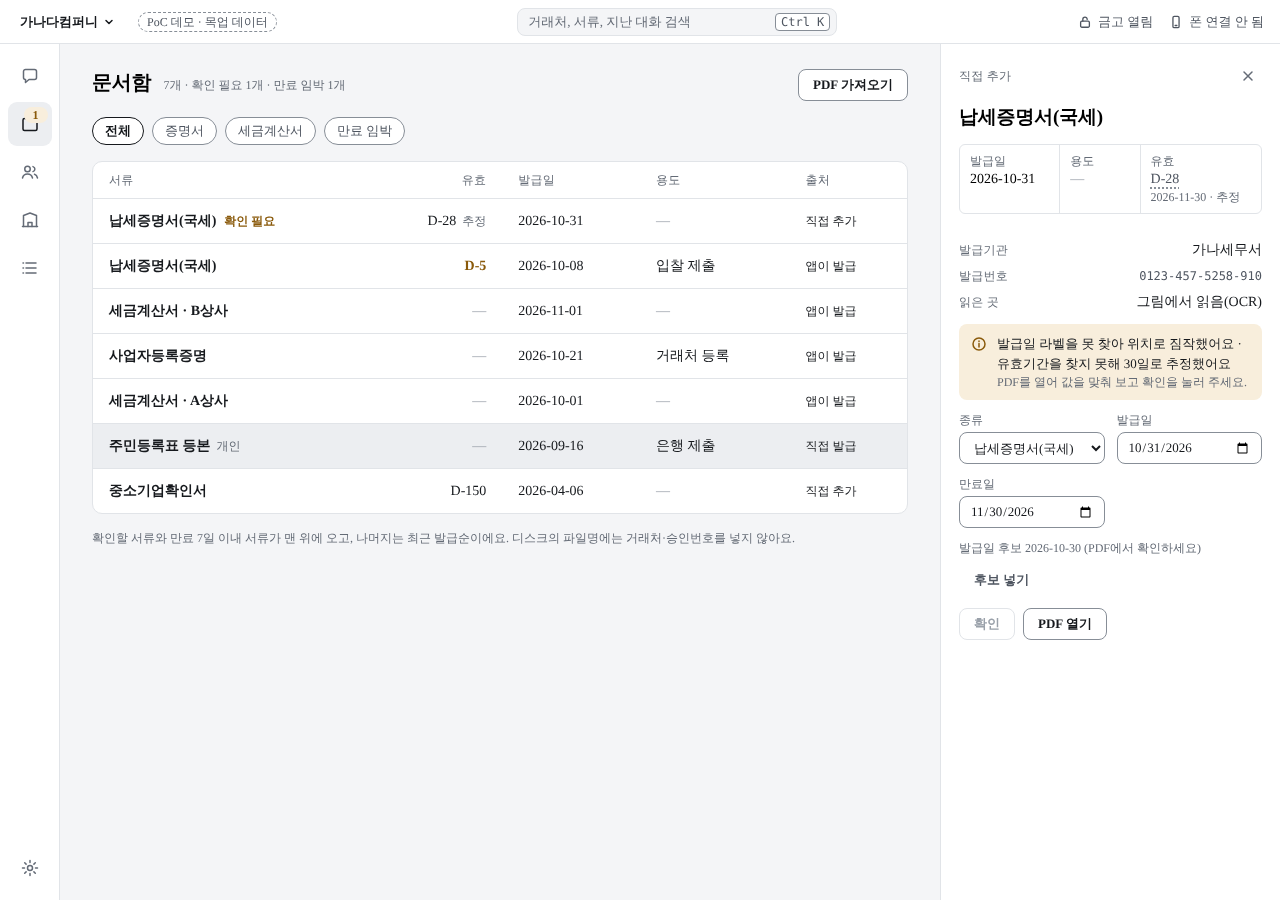
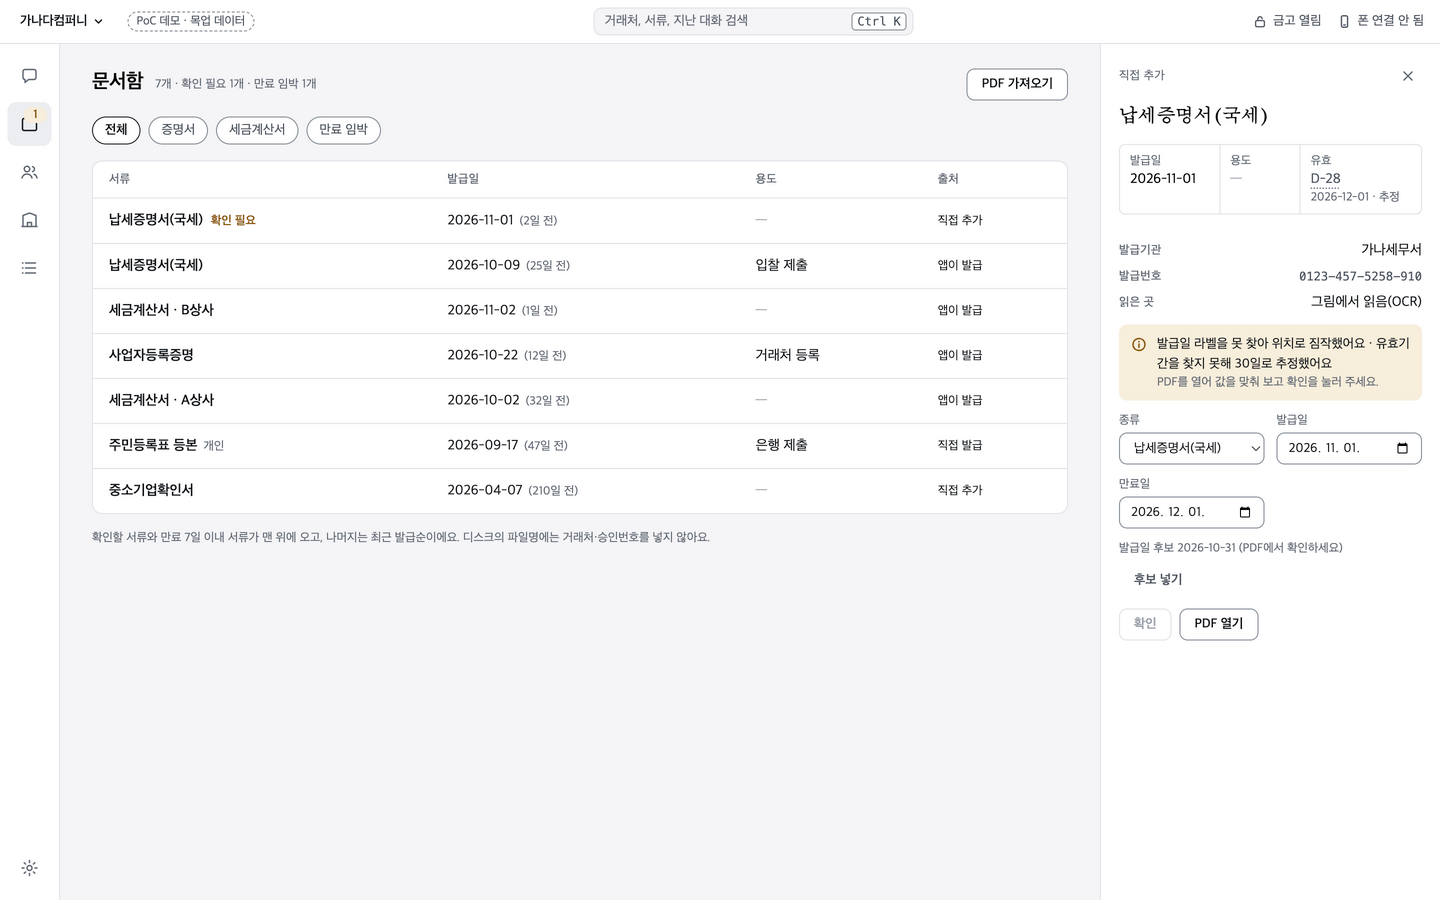
셸 캔버스 후속: 문서함 유효 열 제거·발급일 (n일 전), 설정 발급 인증 목록화
- 문서함 목록: 유효 열을 빼고 발급일 뒤에 "(n일 전)"·"(오늘)"(agoText). 만료 임박은 거르기·정렬·
  상세 패널에 남는다. 만료일 확실성은 행의 data-expiry-tag로만 두고, 문서함 e2e 목록 행 4항목이 읽게 바꿈.
- 설정 > 발급 인증: 등록한 인증 목록, 기본 하나(칩), [기본으로]·[다시 등록]·[삭제]·[인증 추가]는 목업 알림.
  기본은 프로필의 인증, 나머지 줄은 데모 목업. 엔진·금고·IPC는 그대로.
- PoC-9-design-sync: 격차 표 두 줄과 §4 확인. 미리보기 11·12·16만 맥에서 다시 찍음.

diff --git a/poc/apps/desktop/static/shell/shell.js b/poc/apps/desktop/static/shell/shell.js
@@ -1,7 +1,7 @@
 // PoC-9 데모 셸 렌더러: 메인 대화(단일 세션) · 작업 패널 · 문서함 · 거래처 · 정부24 목업.
 // 승인 바는 main이 대화 열 하단(입력창 위)에 따로 그린다. 렌더러는 그 자리를 비우기만 한다(ADR-021).
 import { g24Card, g24Panel } from './shell-g24.js';
-import { btn, CHIP, chip, dayLabel, dday, ddayText, docCard, docPanel, expiryTag, fmtBiz, h, icon, kv, note, num, pastCard, runPanel, runSteps, steps, summaryCard, taskCard, whereRows } from './shell-views.js';
+import { agoText, btn, CHIP, chip, dayLabel, dday, docCard, docPanel, expiryTag, fmtBiz, h, icon, kv, note, num, pastCard, runPanel, runSteps, steps, summaryCard, taskCard, whereRows } from './shell-views.js';
 
 const call = (m, p) => window.sax.call(m, p);
 const localDate = (d) => `${d.getFullYear()}-${String(d.getMonth() + 1).padStart(2, '0')}-${String(d.getDate()).padStart(2, '0')}`;
@@ -485,14 +485,15 @@ function docsView() {
     h('div', { class: 'filters', role: 'group', 'aria-label': '서류 거르기' }, DOC_FILTERS.map(fb)),
     state.docImport ? passwordRow() : null,
     listTable(
-      [['서류'], ['유효', 'num'], ['발급일'], ['용도'], ['출처']],
-      list.map(({ d, n }) =>
+      [['서류'], ['발급일'], ['용도'], ['출처']],
+      list.map(({ d }) =>
         h(
           'tr',
-          { class: state.panel?.id === d.id ? 'is-on' : null, 'data-doc-row': d.id, onclick: () => openPanel({ kind: 'doc', id: d.id }) },
+          // 만료일 확실성(문서·추정·확인함)은 상세 패널 유효 칸에 보인다. 행에는 속성으로만 둔다(시험이 읽는다).
+          { class: state.panel?.id === d.id ? 'is-on' : null, 'data-doc-row': d.id, 'data-expiry-tag': d.vault && d.expiresOn ? expiryTag(d) : null, onclick: () => openPanel({ kind: 'doc', id: d.id }) },
           h('td', { class: 'name' }, d.name, d.profile === 'personal' ? h('span', { class: 'sx-tag doc-tag' }, '개인') : null, d.vault?.needsUser ? h('span', { class: 'doc-flag' }, '확인 필요') : null),
-          h('td', { class: `num${n !== null && n <= 7 ? ' is-attention' : ''}${n === null ? ' is-none' : ''}` }, ddayText(n), d.vault && d.expiresOn ? h('span', { class: 'sx-tag doc-tag' }, expiryTag(d)) : null),
-          h('td', { class: d.issuedOn ? null : 'is-none' }, d.issuedOn ?? '—'),
+          // 유효 열은 두지 않는다(캔버스 D-01). 만료 임박은 거르기·정렬과 상세 패널에 남는다.
+          h('td', { class: d.issuedOn ? null : 'is-none' }, d.issuedOn ?? '—', d.issuedOn && agoText(d.issuedOn, state.today) ? h('span', { class: 'sx-meta doc-ago' }, agoText(d.issuedOn, state.today)) : null),
           h('td', { class: d.purpose ? null : 'is-none' }, d.purpose || '—'),
           h('td', { class: 'sx-meta' }, d.source),
         ),
@@ -701,18 +702,26 @@ function activityPanel(row) {
 }
 
 const SETTINGS_NAV = ['발급 인증', '승인', '서류 보관', '알림', '폰 연결', '내 데이터'];
-const AUTH_OPTS = [
+const AUTH_DESC = [
   ['사업자 간편인증', '발급할 때마다 폰에서 승인해요'],
-  ['보안카드', '한 번 등록하면 앱이 알아서 입력해요 · 홈택스 아이디 로그인 필요'],
+  ['보안카드', '번호 30개 등록됨 · 앱이 알아서 입력해요 · 홈택스 아이디 로그인'],
   ['공동인증서', '비밀번호는 발급할 때마다 직접 입력해요'],
   ['금융인증서', '6자리 비밀번호를 발급할 때마다 직접 입력해요'],
 ];
+const authDesc = (name) => AUTH_DESC.find(([k]) => name.startsWith(k))?.[1] ?? '';
+
+/** 등록한 발급 인증(캔버스 S-02). 기본은 프로필의 인증이고, 나머지 줄은 데모 목업이다(엔진·금고에는 하나만 있다). */
+function authList() {
+  const b = state.boot.profiles.business;
+  const main = b.auth.replace(/\s*\(([^)]+)\)$/, ' · $1');
+  const extra = [['보안카드', true], [`공동인증서 · ${b.name}`, false]].filter(([name]) => !main.startsWith(name.split(' · ')[0]));
+  return [{ name: main, main: true }, ...extra.map(([name, reRegister]) => ({ name, main: false, reRegister }))];
+}
 
 /** 설정(캔버스 S-02 · 발급 인증). 이 데모는 보여 주기만 하고 바꾸지 않는다. */
 function settingsView() {
-  const auth = state.boot.profiles.business.auth;
-  const app = /\(([^)]+)\)/.exec(auth)?.[1] ?? '—';
   const mock = () => toast('목업: 이 데모에서는 설정을 바꾸지 않아요');
+  const small = (label, quiet) => h('button', { type: 'button', class: `auth-act${quiet ? ' is-quiet' : ''}`, onclick: mock }, label);
   return h(
     'section',
     { class: 'rail-screen settings', 'data-view': 'settings' },
@@ -726,29 +735,23 @@ function settingsView() {
       'div',
       { class: 'set-body' },
       waitingChip(),
-      h('div', { class: 'set-intro' }, h('h2', { class: 'sx-card-title' }, '발급 인증'), h('p', { class: 'sx-body-sm is-muted' }, '세금계산서와 증명서를 발급할 때 쓰는 인증이에요. 온보딩에서 한 번 고르면 모든 발급에 같은 방법을 쓰고, 바꿀 때는 여기서만 바꿔요.')),
+      h('div', { class: 'set-intro' }, h('h2', { class: 'sx-card-title' }, '발급 인증'), h('p', { class: 'sx-body-sm is-muted' }, '세금계산서와 증명서를 발급할 때 쓰는 인증이에요. 여러 개를 등록해 둘 수 있고, 발급에는 기본 인증을 써요.')),
       h(
         'div',
-        { class: 'sx-card opt-list' },
-        AUTH_OPTS.map(([label, desc]) => {
-          const on = auth.startsWith(label);
-          return h(
-            'button',
-            { type: 'button', class: `sx-opt${on ? ' is-on' : ''}`, 'aria-pressed': String(on), onclick: on ? null : mock },
-            h('span', { class: 'sx-radio' }),
-            h('span', { class: 'opt-main' }, h('span', {}, label), h('span', { class: 'sx-meta' }, on && app !== '—' ? `${app} · ${desc}` : desc)),
-            on ? h('span', { class: 'sx-chip' }, '사용 중') : null,
-          );
-        }),
+        { class: 'sx-card auth-list', 'data-auth-list': '' },
+        authList().map((a) =>
+          h(
+            'div',
+            { class: 'auth-row', 'data-auth-main': a.main ? '' : null },
+            h('span', { class: 'opt-main' }, h('span', { class: 'auth-name' }, a.name), h('span', { class: 'sx-meta' }, authDesc(a.name))),
+            a.main ? h('span', { class: 'sx-chip is-done' }, '기본') : small('기본으로'),
+            a.reRegister ? small('다시 등록', true) : null,
+            small('삭제', true),
+          ),
+        ),
       ),
-      kv(
-        [
-          ['인증 앱', app],
-          ['보안카드', '—', { state: 'empty', tag: '등록 안 됨', copy: mock, copyLabel: '등록하기' }],
-        ],
-        true,
-      ),
-      h('p', { class: 'sx-meta' }, '바꾸면 다음 발급부터 적용돼요. 진행 중인 작업은 원래 방법으로 끝내요.'),
+      h('div', { class: 'sx-actions' }, btn([icon('plus'), '인증 추가'], mock), h('span', { class: 'sx-meta' }, '사업자 간편인증(다른 은행 앱)·보안카드·공동인증서·금융인증서를 더할 수 있어요')),
+      h('p', { class: 'sx-meta' }, '기본을 바꾸면 다음 발급부터 적용돼요. 진행 중인 작업은 원래 인증으로 끝내요. 이 데모의 기본 외 줄은 목업이에요.'),
       h('div', { class: 'rule' }),
       h(
         'label',

diff --git a/poc/apps/desktop/src/shell-docs-e2e.ts b/poc/apps/desktop/src/shell-docs-e2e.ts
@@ -63,6 +63,8 @@ function pickNext(file: string | null | 'throw', delay = 0): void {
 type DocRow = { id: string; name: string; issuedOn: string | null; expiresOn: string | null; vault?: { expirySource: string | null; needsUser: boolean; reasons: string[]; subjectMismatch: boolean; suggested: { validUntil?: string } } };
 const listDocs = () => js<DocRow[]>(`window.sax.call('docs.list')`);
 const rowText = (id: string) => js<string>(`document.querySelector('[data-doc-row="${id}"]')?.textContent ?? ''`);
+/** 목록에는 유효 열이 없다(캔버스 D-01). 만료일 확실성은 행의 data-expiry-tag로 본다(화면에서는 상세 패널 유효 칸). */
+const rowTag = (id: string) => js<string>(`document.querySelector('[data-doc-row="${id}"]')?.getAttribute('data-expiry-tag') ?? ''`);
 const toastText = () => js<string>(`(() => { const t = document.querySelector('#toast'); return t && !t.hidden ? t.textContent : ''; })()`);
 const busy = () => js<boolean>(`document.querySelector('[data-act=doc-import]')?.disabled ?? false`);
 const importClick = async () => {
@@ -159,7 +161,7 @@ async function main(): Promise<void> {
 
   const t = await importNew(files.tax);
   check('납세증명서: 보관함에 들어가고 문서에서 읽은 만료일, 확인 필요 없음', !!t && t.issuedOn === tax.expected.issuedOn && t.expiresOn === tax.expected.validUntil && t.vault!.expirySource === 'document' && !t.vault!.needsUser, t);
-  check('목록 행: 만료 D-n 옆에 출처(문서)', !!t && (await rowText(t.id)).includes('문서'), t && (await rowText(t.id)));
+  check('목록 행: 발급일 옆 "(n일 전)", 만료일 출처(문서)', !!t && /일 전\)|\(오늘\)/.test(await rowText(t.id)) && (await rowTag(t.id)) === '문서', t && `${await rowText(t.id)} / ${await rowTag(t.id)}`);
   check('가져온 서류의 패널이 열리고 확인 구역이 보인다', !!t && (await js<boolean>(`document.querySelector('[data-doc-review="${t.id}"]')?.offsetParent != null`)));
 
   const n0 = (await listDocs()).length;
@@ -169,7 +171,7 @@ async function main(): Promise<void> {
 
   const b = await importNew(files.biz);
   check('사업자등록증명(다른 사업자): 90일 추정, 확인 필요(subject_mismatch)', !!b && b.vault!.expirySource === 'rule' && b.vault!.needsUser && b.vault!.reasons.includes('subject_mismatch'), b);
-  check('목록 행: 확인 필요 표시와 추정 표시', !!b && /확인 필요/.test(await rowText(b.id)) && /추정/.test(await rowText(b.id)), b && (await rowText(b.id)));
+  check('목록 행: 확인 필요 표시와 추정 표시', !!b && /확인 필요/.test(await rowText(b.id)) && (await rowTag(b.id)) === '추정', b && `${await rowText(b.id)} / ${await rowTag(b.id)}`);
   check('확인 필요 서류가 목록 맨 위', (await js<string>(`document.querySelector('section[data-view=docs] tbody tr')?.getAttribute('data-doc-row') ?? ''`)) === b?.id);
   await js(`document.querySelector('[data-doc-row="${b!.id}"]').click()`);
   await until('review panel', async () => js<boolean>(`!!${review(b!.id, '[data-act=doc-confirm]')}`), 5000);
@@ -180,11 +182,11 @@ async function main(): Promise<void> {
   check('문서 패널에서 바꾸지 않고 확인하면 확인함(대상 표시는 남음)', !!b2 && !b2.vault!.needsUser && b2.vault!.expirySource === 'user' && b2.vault!.subjectMismatch, b2);
   check('바꾸지 않은 확인은 빈 수정으로 보낸다', JSON.stringify(patches.at(-1)) === '{}', patches.at(-1));
   await until('row updated', async () => !/확인 필요/.test(await rowText(b!.id)), 5000);
-  check('목록 행에서 확인 필요가 사라지고 확인함 표시', /확인함/.test(await rowText(b!.id)) && !/확인 필요/.test(await rowText(b!.id)), await rowText(b!.id));
+  check('목록 행에서 확인 필요가 사라지고 확인함 표시', (await rowTag(b!.id)) === '확인함' && !/확인 필요/.test(await rowText(b!.id)), `${await rowText(b!.id)} / ${await rowTag(b!.id)}`);
 
   const a = await importNew(files.amb);
   check('유효기간 줄이 둘인 납세증명서: 규칙보다 이른 문서 후보를 잠정 만료일로(짧은 쪽), 확인 필요', !!a && a.expiresOn === AMB_VALID && a.vault!.expirySource === 'document' && a.vault!.needsUser && a.vault!.reasons.includes('valid_until_ambiguous') && a.vault!.suggested.validUntil === AMB_VALID, a);
-  check('목록 행: 확인 필요 서류의 만료일은 추정', !!a && /추정/.test(await rowText(a.id)), a && (await rowText(a.id)));
+  check('목록 행: 확인 필요 서류의 만료일은 추정', !!a && (await rowTag(a.id)) === '추정', a && `${await rowText(a.id)} / ${await rowTag(a.id)}`);
   const field = (f: string) => js<string>(`${review(a!.id, `[data-field=${f}]`)}?.value ?? ''`);
   const setField = (f: string, v: string) => js(`(() => { const i = ${review(a!.id, `[data-field=${f}]`)}; i.value = '${v}'; i.dispatchEvent(new Event('input')); })()`);
 

diff --git a/poc/apps/desktop/static/shell/shell.css b/poc/apps/desktop/static/shell/shell.css
@@ -171,8 +171,15 @@ body.bar-active .rs-waiting { display: inline-flex; }
 .set-body > .rs-waiting { align-self: flex-end; }
 .set-intro { display: grid; gap: 4px; }
 .set-intro h2 { margin: 0; }
-.set-body .sx-card.opt-list { gap: var(--space-2); }
-.set-body .sx-opt .sx-chip { height: 22px; }
+.auth-list { gap: 0; padding-top: 4px; padding-bottom: 4px; }
+.auth-row { display: flex; align-items: center; gap: 12px; padding: 12px 0; border-bottom: 1px solid var(--line); }
+.auth-row:last-child { border-bottom: 0; }
+.auth-row .opt-main { flex: 1; min-width: 0; }
+.auth-name { font-size: 14px; font-weight: 600; }
+.auth-row .sx-chip { height: 22px; }
+.set-body .sx-btn svg { width: 16px; height: 16px; }
+.auth-act { height: 28px; padding: 0 10px; border: 1px solid var(--line-strong); border-radius: var(--radius-md); background: var(--surface); color: var(--ink-2); font: inherit; font-size: 12px; cursor: pointer; }
+.auth-act.is-quiet { padding: 0 8px; border-color: transparent; background: transparent; color: var(--ink-3); }
 .set-body > p { margin: 0; }
 .rule { height: 1px; background: var(--line); }
 .set-check { display: flex; align-items: flex-start; gap: 12px; }
@@ -187,6 +194,7 @@ body.bar-active .rs-waiting { display: inline-flex; }
 /* 문서함 보관함 서류(PoC-8): 확인 필요 표시, 만료일 출처, 열기 암호 줄, 확인 구역 */
 .doc-flag { margin-left: 8px; font-size: 12px; font-weight: 600; color: var(--attention); }
 .doc-tag { margin-left: 6px; }
+.doc-ago { margin-left: 6px; }
 .doc-pw-row { display: flex; align-items: center; gap: var(--space-2); flex-wrap: wrap; padding: 12px; border: 1px solid var(--line); border-radius: var(--radius-lg); background: var(--surface); }
 .doc-pw-row .sx-note { flex: 1 1 100%; }
 .doc-pw, .doc-in { height: var(--control-height); box-sizing: border-box; padding: 0 10px; border: 1px solid var(--line-strong); border-radius: var(--radius-md); background: var(--surface); color: var(--ink); font: inherit; font-size: 13px; }

diff --git a/poc/apps/desktop/static/shell/shell-views.js b/poc/apps/desktop/static/shell/shell-views.js
@@ -69,6 +69,11 @@ export function dday(s, today) {
   return Math.round((parse(s) - t) / 86400000);
 }
 export const ddayText = (n) => (n === null ? '—' : n < 0 ? '만료됨' : n === 0 ? 'D-day' : `D-${n}`);
+/** 발급일 뒤에 붙는 "(n일 전)". 오늘이면 "(오늘)", 날짜가 없거나 미래면 붙이지 않는다. */
+export function agoText(s, today) {
+  const n = dday(s, today);
+  return n === null || n > 0 ? '' : n === 0 ? '(오늘)' : `(${-n}일 전)`;
+}
 
 // ---- 컴포넌트 ----
 

diff --git a/poc/reports/PoC-9-design-sync.md b/poc/reports/PoC-9-design-sync.md
@@ -24,11 +24,11 @@
 | 완료 카드 | 승인번호 KeyValue, [PDF 열기](주요) [지난번과 같게] [어디로 무엇이 갔나요] | 승인번호 줄, [PDF 열기] [폴더 열기] [지난번과 같게], 접힌 details | 코드([폴더 열기]는 패널로) |
 | 확인 필요 카드 | 없음 | 황토 안내 | 캔버스 추가 |
 | 작업 패널 | 공급자·부가세(초안)·발급 인증이 KeyValue 행, 출처 → "실행 단계" 6단계 | "확인 값" 머리, 합계 행, 발급 인증 별도 줄, 8단계 | 코드. 엔진 단계 8개는 그대로 두고 화면에서만 캔버스 6단계로 묶음(`runSteps`) |
-| 문서함 목록 | 서류·유효·발급일·용도·출처, 테두리 상자, 알약 거르기, 건수 | 표시 이름·종류·프로필·발급일·만료·출처 | 코드(개인 서류는 이름 옆 "개인", 확인 필요·추정·확인함 표시는 그대로) |
+| 문서함 목록 | 서류·발급일(n일 전)·용도·출처, 테두리 상자, 알약 거르기, 건수. 유효 열 없음(캔버스 후속, 2026-11-03) | 표시 이름·종류·프로필·발급일·만료·출처 | 코드(개인 서류는 이름 옆 "개인", 확인 필요 표시는 그대로). 만료 임박은 거르기·정렬·상세 패널에 남음 |
 | 문서함 상세 | 납작한 상세: 종류 → 이름 + 도장 → 미리보기 → 세 칸 → 값 → 버튼 → 출처 | "서류" 머리 아래 카드 + 미리보기 | 코드. 보관함 서류는 확인 구역이 버튼 자리에 옴 |
 | 문서함 확인 필요·열기 암호 | 없음 | PoC-8에서 생김 | 캔버스 추가, 코드 모양 정리 |
 | 거래처·내 사업장·활동 기록 | 없음 | 거래처 목록만, 나머지 빈 화면 | 캔버스 추가(D-02·D-03·S-01), 코드는 이미 가진 데이터로 보여 주기만 |
-| 설정 · 발급 인증 | S-02 | 빈 화면 | 코드: 보여 주기만(바꾸기 없음, 누르면 "목업" 알림) |
+| 설정 · 발급 인증 | S-02: 등록한 인증 목록, 기본 하나(캔버스 후속, 2026-11-03) | 빈 화면 | 코드: 등록 목록과 기본 표시, [기본으로]·[다시 등록]·[삭제]·[인증 추가]는 "목업" 알림. 기본은 프로필의 인증, 나머지 줄은 데모 목업(엔진·금고에는 하나뿐) |
 | 정부24 직접 발급 | 없음 | T-08 목업 2장 | 캔버스 추가, 코드 패널에서 "목업" 배지 뺌(제목줄에 데모 표시가 있음) |
 
 ## 2. 캔버스에 더한 아트보드
@@ -54,3 +54,4 @@
 - 셸 e2e(`pnpm demo:e2e`)는 실행 Chrome이 필요해 리눅스 컨테이너에서는 돌리지 않았다. 셀렉터·문구(`data-run`·`data-act`·"초안과 같아요"·"메일로 보낸 것도 확인했어요" 등)는 유지했다. **Windows·macOS에서 한 번 돌려 확인이 필요하다.**
 - macOS(2026-11-03, origin/main eda3933 병합 뒤): `pnpm build`·`pnpm lint` 통과, `pnpm test` 279 통과·0 실패(Windows 전용 3건 건너뜀), 셸 e2e(`pnpm demo:e2e`) 52/52, 셸 문서함 e2e(`shell-docs-e2e`) 41/41. 시험이 덮어쓴 `reports/raw/` 파일은 되돌렸다.
 - 리뷰 반영: 확인 필요로 끝난 실행이 단계 사이에서 멈췄으면(진행 중 단계 없음) 끝나지 않은 첫 묶음을 "확인 필요"로 표시한다(`runSteps`). 전에는 그 묶음이 "할 일"로 떨어져 멈춘 곳이 안 보였다.
+- 캔버스 후속(2026-11-03): 문서함 목록에서 유효 열을 빼고 발급일에 "(n일 전)"을 붙였다. 만료일 확실성(문서·추정·확인함)은 상세 패널 유효 칸에 보이고, 행에는 `data-expiry-tag`로만 남겨 문서함 e2e의 목록 행 4항목이 그것을 읽게 바꿨다. 설정 > 발급 인증은 등록한 인증 목록과 기본 하나로 바꿨다(바꾸기는 목업). macOS에서 `pnpm build`·`lint` 통과, `pnpm test` 279/0(3 건너뜀), 셸 e2e 52/52, 문서함 e2e 41/41. 미리보기는 바뀐 화면(11·12·16)만 맥에서 다시 찍었다(맥 서체).
